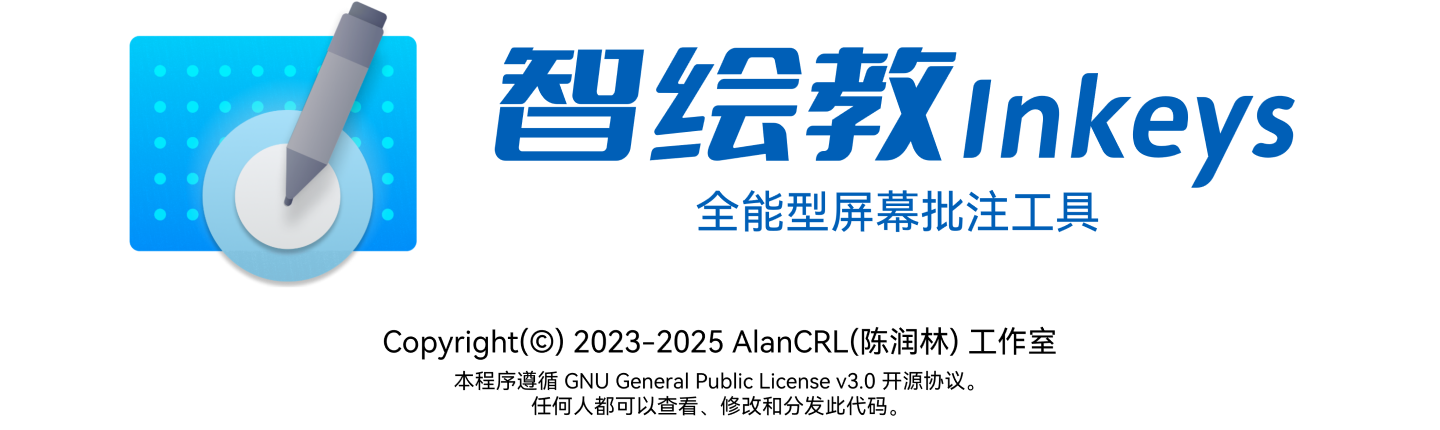
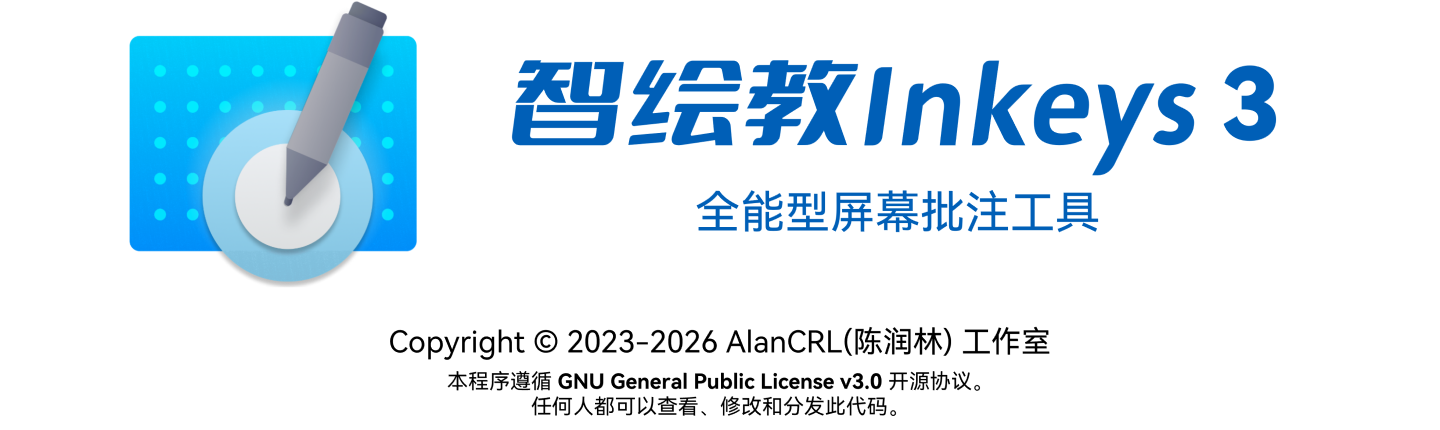
20260207 1028 update

Changed region(s): [[0.3438, 0.0907, 0.9062, 0.4535], [0.25, 0.7558, 0.75, 0.9674], [0.5312, 0.514, 0.5625, 0.5442]]

diff --git a/智绘教/IdtMain.cpp b/智绘教/IdtMain.cpp
@@ -48,8 +48,8 @@
 #pragma comment(lib, "netapi32.lib")
 
 wstring buildTime = __DATE__ L" " __TIME__;		// 构建时间
-wstring editionDate = L"20260206b";				// 程序发布日期
-wstring editionChannel = L"Dev";				// 程序发布通道
+wstring editionDate = L"20260207a";				// 程序发布日期
+wstring editionChannel = L"Canary";				// 程序发布通道
 
 wstring userId;									// 用户GUID
 wstring globalPath;								// 程序当前路径
@@ -1111,7 +1111,7 @@ int WINAPI wWinMain(HINSTANCE /*hInstance*/, HINSTANCE /*hPrevInstance*/, LPWSTR
 	// 字体初始化
 	{
 		// 加载字体到 GDI[废弃]
-		if (true)
+		if (!useInkeys3UI)
 		{
 			INT numFound = 0;
 			HRSRC hRes = FindResource(NULL, MAKEINTRESOURCE(198), L"TTF");
@@ -1253,79 +1253,10 @@ int WINAPI wWinMain(HINSTANCE /*hInstance*/, HINSTANCE /*hPrevInstance*/, LPWSTR
 	}
 	// RealTimeStylus触控库
 	{
-		bool hasErr = false;
+		if (useMouseInput == false) InitRTSLogic();
 
-		HRESULT hr;
-		GUID desiredPacketProperties[] = { GUID_PACKETPROPERTY_GUID_X, GUID_PACKETPROPERTY_GUID_Y, GUID_PACKETPROPERTY_GUID_NORMAL_PRESSURE,GUID_PACKETPROPERTY_GUID_WIDTH, GUID_PACKETPROPERTY_GUID_HEIGHT };
-
-		// Create RTS object
-		g_pRealTimeStylus = CreateRealTimeStylus(drawpad_window);
-		if (g_pRealTimeStylus == NULL)
-		{
-			IDTLogger->warn("[主线程][IdtMain] RealTimeStylus 为 NULL");
-
-			hasErr = true;
-			goto RealTimeStylusEnd;
-		}
-
-		// 设置属性包
-		hr = g_pRealTimeStylus->SetDesiredPacketDescription(5, desiredPacketProperties);
-		if (FAILED(hr))
-		{
-			IDTLogger->warn("[主线程][IdtMain] SetDesiredPacketDescription 为 失败");
-
-			g_pRealTimeStylus->Release();
-			g_pRealTimeStylus = NULL;
-
-			hasErr = true;
-			goto RealTimeStylusEnd;
-		}
-
-		// Create EventHandler object
-		g_pSyncEventHandlerRTS = CSyncEventHandlerRTS::Create(g_pRealTimeStylus);
-		if (g_pSyncEventHandlerRTS == NULL)
-		{
-			IDTLogger->warn("[主线程][IdtMain] SyncEventHandlerRTS 为 NULL");
-
-			g_pRealTimeStylus->Release();
-			g_pRealTimeStylus = NULL;
-
-			hasErr = true;
-			goto RealTimeStylusEnd;
-		}
-
-		// Enable RTS
-		if (!EnableRealTimeStylus(g_pRealTimeStylus))
-		{
-			IDTLogger->warn("[主线程][IdtMain] 启用 RTS 失败");
-
-			g_pSyncEventHandlerRTS->Release();
-			g_pSyncEventHandlerRTS = NULL;
-
-			g_pRealTimeStylus->Release();
-			g_pRealTimeStylus = NULL;
-
-			hasErr = true;
-			goto RealTimeStylusEnd;
-		}
-
-	RealTimeStylusEnd:
-
-		if (hasErr)
-		{
-			IDTLogger->critical("[主线程][IdtMain] 程序意外退出：RealTimeStylus 触控库初始化失败。");
-
-			if (LaunchState::warnTry) MessageBox(NULL, L"Program unexpected exit: RealTimeStylus touch library initialization failed.(#4)\n程序意外退出：RealTimeStylus 触控库初始化失败。(#4)", L"Inkeys Error | 智绘教错误", MB_OK | MB_SYSTEMMODAL);
-			else ShellExecuteW(NULL, NULL, GetCurrentExePath().c_str(), L"-WarnTry", NULL, SW_SHOWNORMAL);
-
-			exit(0);
-		}
-
-		thread RTSSpeed_thread(RTSSpeed);
-		RTSSpeed_thread.detach();
-
+		thread(RTSSpeed).detach();
 		rtsWait = false;
-		IDTLogger->info("[主线程][IdtMain] RealTimeStylus触控库初始化完成");
 	}
 	// 线程
 	{
@@ -1337,7 +1268,7 @@ int WINAPI wWinMain(HINSTANCE /*hInstance*/, HINSTANCE /*hPrevInstance*/, LPWSTR
 		thread(StateMonitoring).detach();
 
 		// 放大API
-		thread(MagnifierThread).detach();
+		if (magnificationCreateReady) thread(MagnifierThread).detach();
 
 		// 启动 PPT 联动插件
 		thread(PPTLinkageMain).detach();

diff --git a/智绘教/SuperTop/IdtSuperTop.cpp b/智绘教/SuperTop/IdtSuperTop.cpp
@@ -198,6 +198,8 @@ void SurperTopMain(wstring lpCmdLine)
 	if (!UiAccess::RunToken::RunTokenProgram(inkeysToken, param))
 	{
 		cout << "RunTokenProgram Fail" << endl;
+
+		MessageBox(NULL, L"智绘教Inkeys SuperTop failed. Please reopen the app (the SuperTop feature will be automatically disabled).\n智绘教Inkeys 超级置顶失败，请重新打开程序（程序将自动关闭超级置顶功能）。", L"Inkeys Tips | 智绘教提示", MB_SYSTEMMODAL | MB_OK);
 	}
 }
 

diff --git a/智绘教/IdtUpdate.h b/智绘教/IdtUpdate.h
@@ -60,7 +60,7 @@ enum class AutomaticUpdateStateEnum : int
 	UpdateRestart = 8, // 重启软件更新到最新版本
 	UpdateLatest = 9, // 软件已经是最新版本
 	UpdateNewer = 10, // 软件相对最新版本更新
-	UpdateNew = 11 // 发现软件新版本
+	UpdateNew = 11, // 发现软件新版本
 };
 extern AutomaticUpdateStateEnum AutomaticUpdateState;
 
